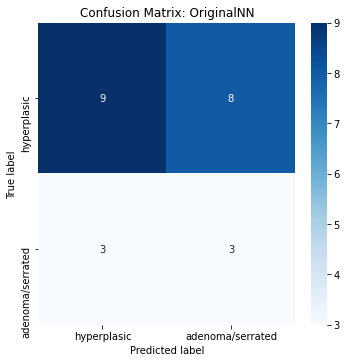
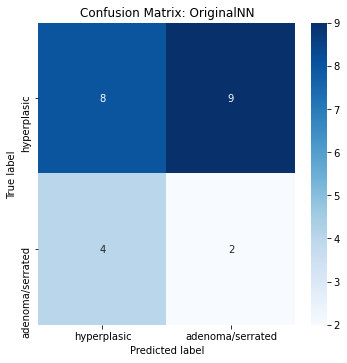
arreglado bug con clasificacion binaria

diff --git a/main.py b/main.py
@@ -108,8 +108,8 @@ def leaveOneOut(X_train, X_test, Y_train, Y_test, original_model, epochs=50, bat
             print(f"Train Time {seconds}")
   
         y_pre = new_model(X_fold_test)
-        y_pre = [np.argmax(values) for values in y_pre]
-        # print(f"Y_true: {np.argmax(y_test, axis=1)} Y_pre: {y_pre}")
+        y_pre = [1 if val > 0.5 else 0 for val in y_pre]
+        # print(f"Y_true: {Y_fold_test} Y_pre: {y_pre}")
         y_predict.append(y_pre)
         
         if (verbose):
@@ -138,9 +138,9 @@ def main():
     
     
     originalNN_parameters = {'input_size_net':(224,224,3), 'output_size':1}
-    NASExperiment(X, Y, "OriginalNN", OriginalNN, originalNN_parameters)
+    # NASExperiment(X, Y, "OriginalNN", OriginalNN, originalNN_parameters)
     
-    autokeras_parameters = {'validation_split':0.15, 'epochs':50, 'max_trials':100}
+    autokeras_parameters = {'validation_split':0.15, 'epochs':50, 'max_trials':20}
     NASExperiment(X, Y, "Autokeras", autokerasModel, autokeras_parameters)
 
 if __name__ == '__main__':
